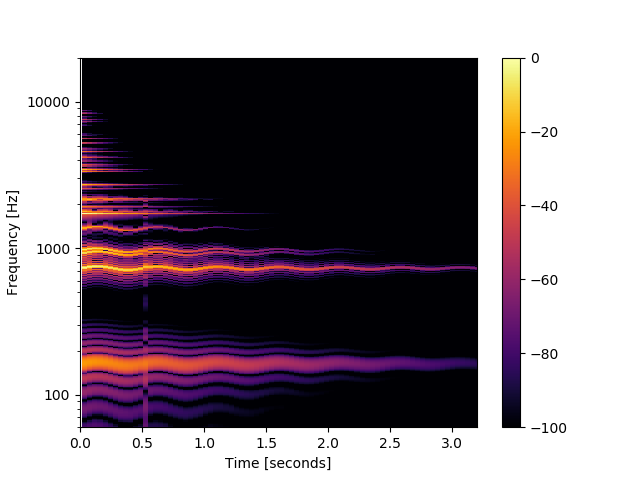
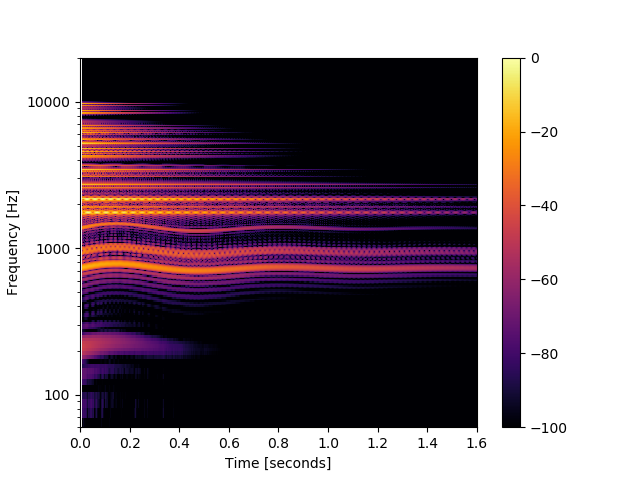
Update vibrato spectrogram [ci skip]

diff --git a/vibrato_specgram.py b/vibrato_specgram.py
@@ -1,21 +1,58 @@
+# %%
 import numpy as np
 import scipy.signal as signal
 from scipy.io import wavfile
+import audio_dspy as adsp
 import matplotlib.pyplot as plt
 from matplotlib import ticker
 
-fs, x = wavfile.read('Audio/Hydroflask/third_full_vibrato.wav')
+# %%
+mode_data = np.loadtxt('hydroflask_water_modes.csv', dtype=np.complex_)
+sixteenth_full = mode_data[4]
 
-x = x[:,0] / 2**15
+freqs = sixteenth_full[:40].astype(float)
+taus = sixteenth_full[40:80].astype(float) * 1.8
+amps = sixteenth_full[80:]
 
-f, t, Sxx = signal.spectrogram(x, fs, nperseg=2048, nfft=4096*8)
+FS = 48000
+N = int(3 * FS)
+# x = adsp.generate_modal_signal(amps, freqs, taus, len(amps), int(3 * FS), FS)
+
+# %%
+imp = adsp.impulse(N)
+x = np.zeros(N)
+
+for n in range(len(amps)):
+    if n < 5:
+        freq_osc = freqs[n] * 0.1 * np.sin(2 * np.pi * 1.5 * np.arange(N) / FS) * 0.99996**np.arange(N)
+        filt = adsp.Filter(2, FS)
+
+        for k in range(N):
+            b, a = adsp.design_modal_filter(
+                amps[n], freqs[n] + freq_osc[k], taus[n], FS, fs_measure=FS)
+            filt.set_coefs(b, a)
+            x[k] += filt.process_sample(imp[k])
+    
+    else:
+        b, a = adsp.design_modal_filter(
+            amps[n], freqs[n], taus[n], FS, fs_measure=FS)
+
+        x += signal.lfilter(b, a, imp)
+
+x = adsp.normalize(x)
+
+# %%
+eps = np.finfo(float).eps
+
+f, t, Sxx = signal.spectrogram(x, FS, nperseg=1024, noverlap=1024-32, nfft=1024*4) # nperseg=2048, nfft=4096*4)
 Sxx /= np.max(np.abs(Sxx))
-plt.pcolormesh(t, f, 20*np.log10(np.abs(Sxx)), cmap='inferno', vmin=-100)
+plt.figure()
+plt.pcolormesh(t, f, 20*np.log10(np.abs(Sxx) + eps), cmap='inferno', vmin=-100)
 plt.colorbar()
 plt.yscale('log')
 plt.gca().yaxis.set_major_formatter(ticker.ScalarFormatter())
 plt.ylim(60, 20000)
-plt.xlim(0, 3.2)
+plt.xlim(0, 1.6)
 
 plt.xlabel('Time [seconds]')
 plt.ylabel('Frequency [Hz]')
@@ -23,3 +60,5 @@ plt.ylabel('Frequency [Hz]')
 plt.savefig('Figures/Specgrams/Vibrato.png')
 
 plt.show()
+
+# %%
